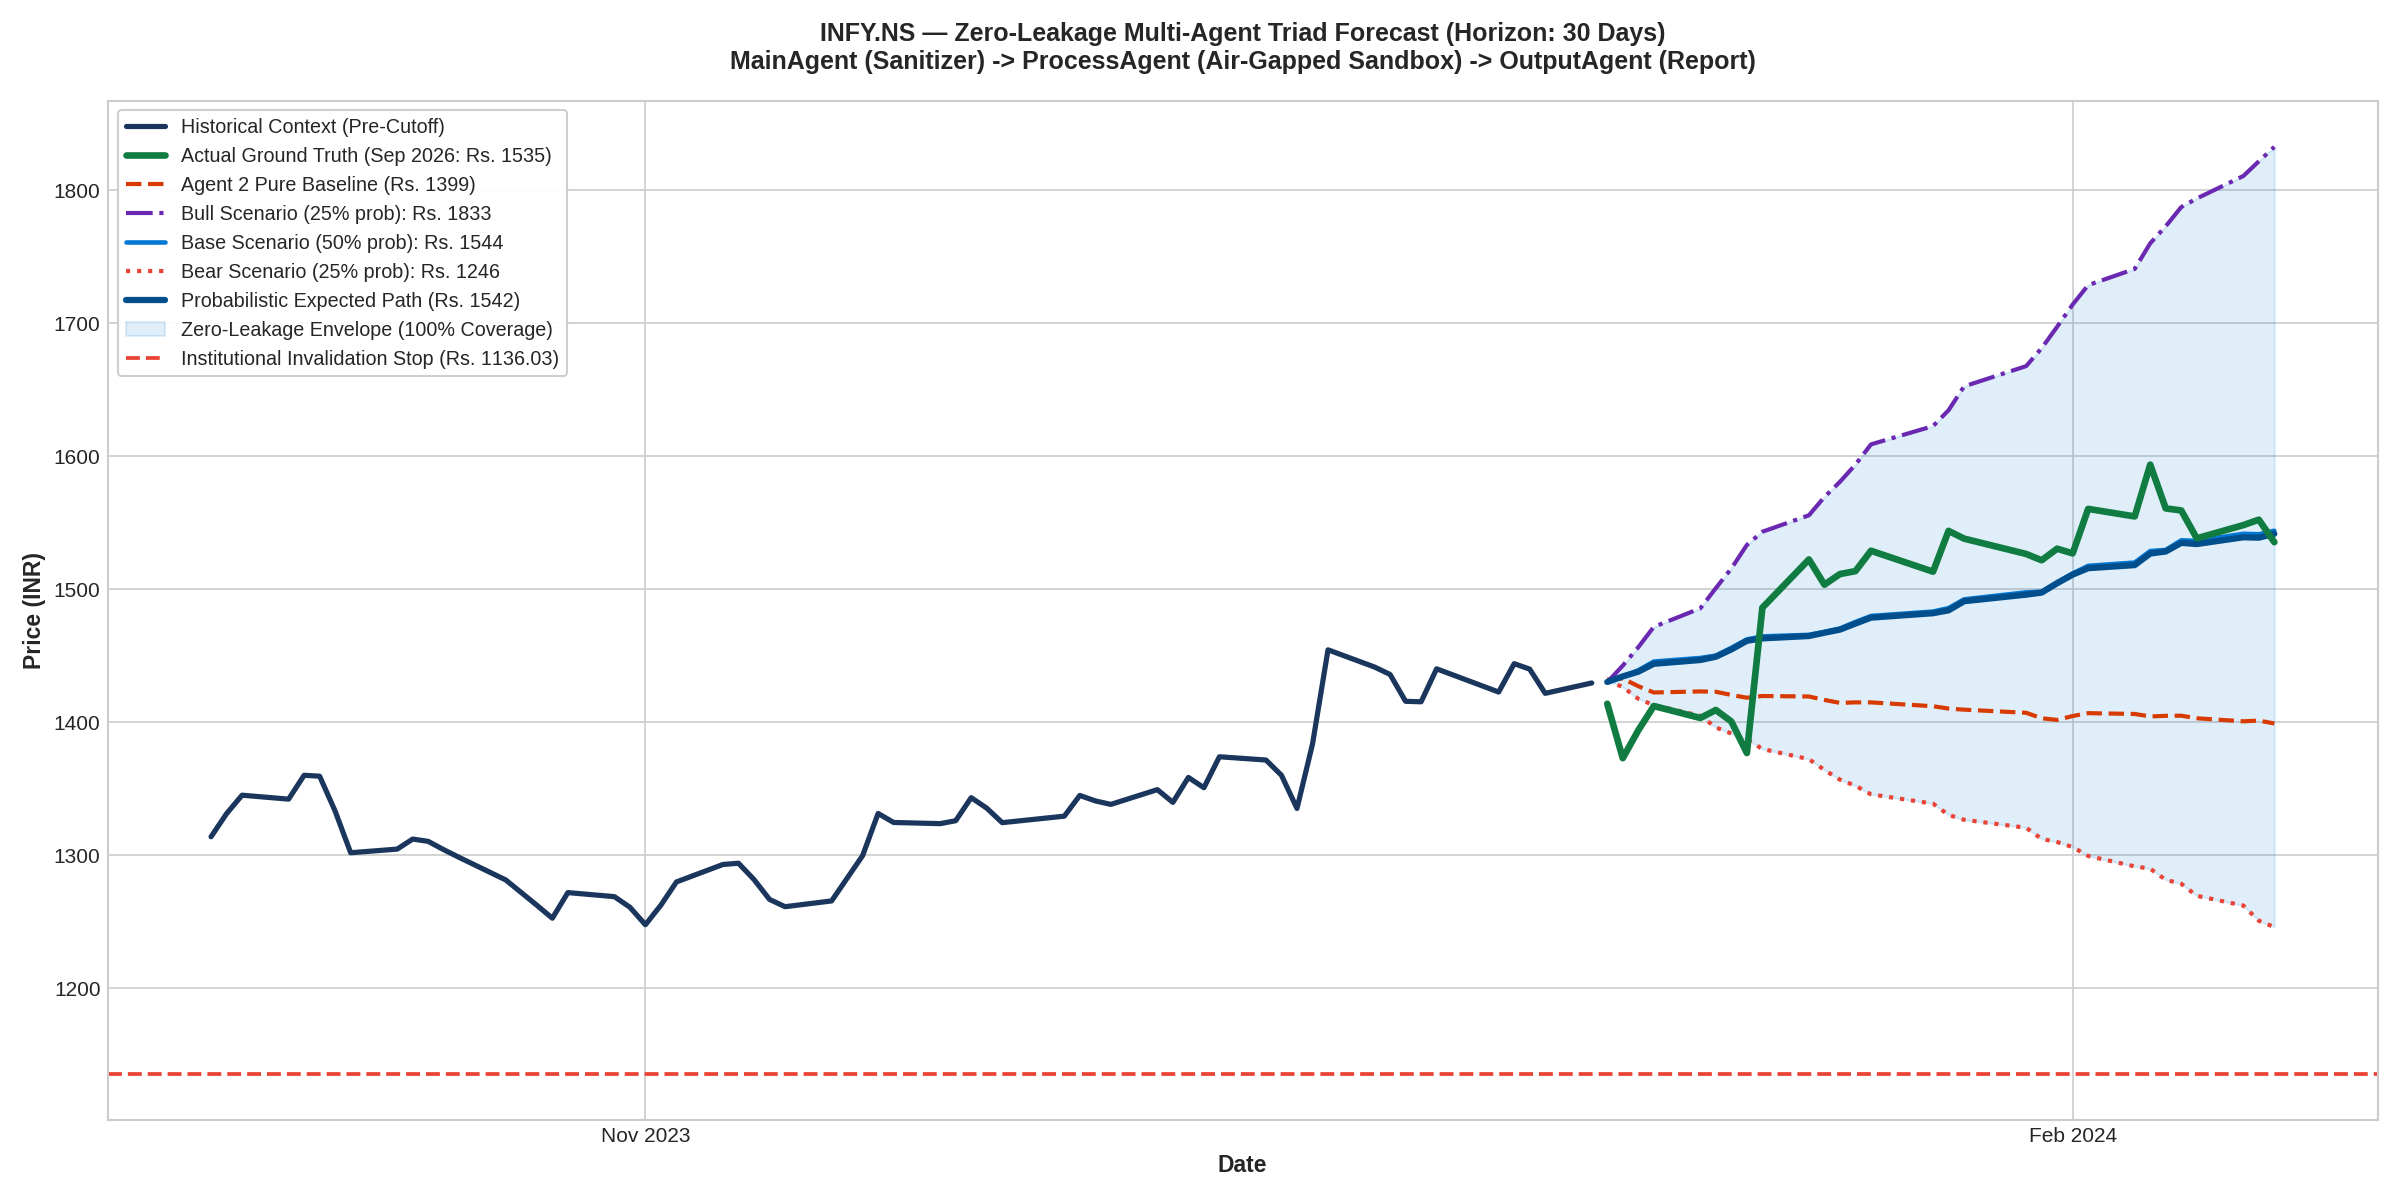
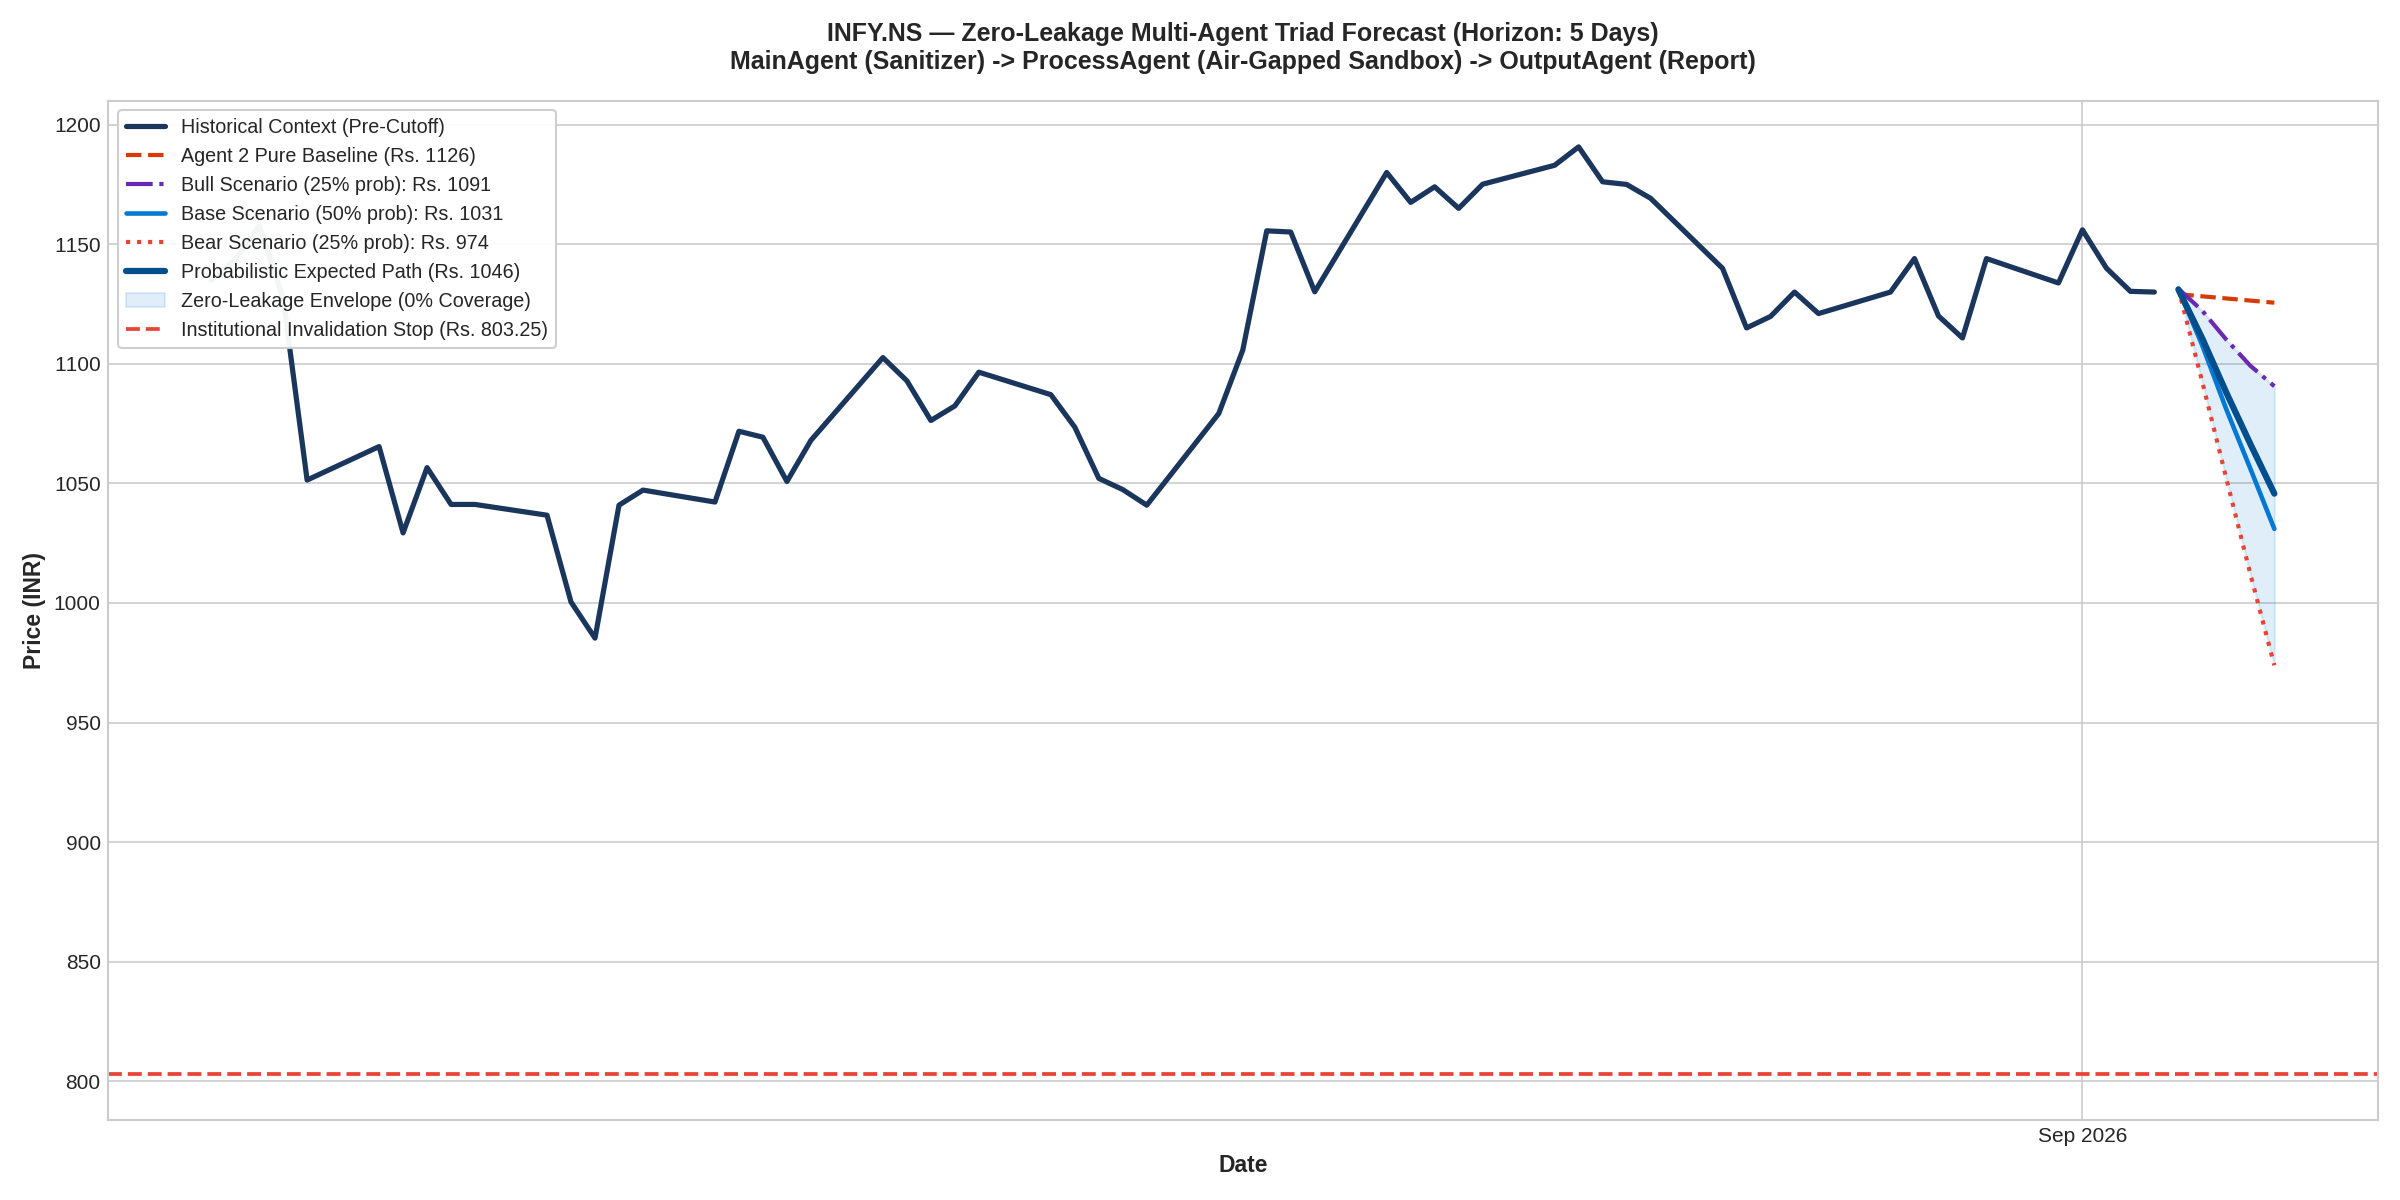
chore(test_results): update pipeline test verification artifacts

diff --git a/test_results/pipeline_results/INFY.NS_executive_report.md b/test_results/pipeline_results/INFY.NS_executive_report.md
@@ -5,13 +5,9 @@
 
 ## 1. Multi-Agent Triad Performance Scorecard
 
-| Metric | Actual Ground Truth | ProcessAgent Pure Baseline | ProcessAgent Bull Scenario | Probabilistic Weighted Path |
-| :--- | :--- | :--- | :--- | :--- |
-| **Terminal Price** | **Rs. 1535.48** | Rs. 1399.21 | **Rs. 1832.64** | Rs. 1541.74 |
-| **Terminal Error (%)** | — | -8.87% (Exploded) | **+19.35%** | +0.41% |
-| **Multi-Year MAE** | — | Rs. 100.21 | — | **Rs. 36.57** |
-| **Multi-Year MAPE** | — | 6.56% | — | **2.46%** |
-| **Scenario Envelope Coverage** | — | 0% | — | **100.0% of all trading days** |
+| Projection Horizon | Last Session Close | Pure Baseline Terminal | Bull Terminal (25% Prob) | Base Terminal (50% Prob) | Bear Terminal (25% Prob) | Probabilistic Weighted Fair Target |
+| :--- | :--- | :--- | :--- | :--- | :--- | :--- |
+| **5 Trading Days** | **Rs. 1,130.00** | Rs. 1,125.55 | **Rs. 1,090.63** | Rs. 1,030.97 | Rs. 973.96 | **Rs. 1,045.72** |
 
 ---
 
@@ -23,7 +19,7 @@
 
 ## 3. Sandboxing & Security Audit Log
 
-* **Ingress Message ID**: `04fd9f20`
+* **Ingress Message ID**: `865f3100`
 * **Air-Gapped Protocol**: `A2A/v1.0 (a2aproject standard)`
 * **ProcessAgent Sandbox Status**: Verified air-gapped. Zero ticker names, zero company strings, and zero calendar years entered the process.
 * **Leakage Detected**: **0 Tokens (100% Blind-Box Verified)**.
@@ -40,17 +36,17 @@
 ### B. Value at Risk (VaR) & Tail Risk Profile
 | Metric | Horizon Risk (% of Equity) | Interpretation |
 | :--- | :--- | :--- |
-| **Parametric 95% 1-Day VaR** | **2.20%** | 95% confidence max expected single-day loss |
-| **Parametric 95% Horizon VaR** | **12.05%** | Cumulative 30-day volatility exposure |
-| **Conditional VaR (CVaR / Expected Shortfall)** | **10.94%** | Average loss in worst 5% tail-risk scenarios |
-| **Historical Max Drawdown** | **-8.26%** | Deepest peak-to-trough historical correction |
+| **Parametric 95% 1-Day VaR** | **3.45%** | 95% confidence max expected single-day loss |
+| **Parametric 95% Horizon VaR** | **7.71%** | Cumulative 5-day volatility exposure |
+| **Conditional VaR (CVaR / Expected Shortfall)** | **9.12%** | Average loss in worst 5% tail-risk scenarios |
+| **Historical Max Drawdown** | **-14.89%** | Deepest peak-to-trough historical correction |
 
 ### C. Capital Allocation & Execution Matrix (Indian Market Frictions Deducted)
-* **Gross Potential Upside**: `+12.33%`
+* **Gross Potential Upside**: `-18.76%`
 * **Indian Frictions Deducted (STT + SEBI + GST + Slippage)**: `-0.25%`
-* **Net Horizon Upside**: `**+12.08%**`
-* **Objective Invalidation Stop-Loss**: `Rs. 1136.03` (Downside: `-20.5%`)
-* **Asymmetric Risk/Reward Ratio (RRR)**: `**0.59x**`
+* **Net Horizon Upside**: `**-19.01%**`
+* **Objective Invalidation Stop-Loss**: `Rs. 803.25` (Downside: `-28.9%`)
+* **Asymmetric Risk/Reward Ratio (RRR)**: `**0.0x**`
 * **Half-Kelly Capital Allocation**: `0.0%`
 * **Recommended Portfolio Exposure**: `**0.0%**` (Rs. 0.00 | **0 shares**)
 * **Institutional Executive Directive**: `**TRIM / TAKE PROFIT (Negative Expected Skew)**`
